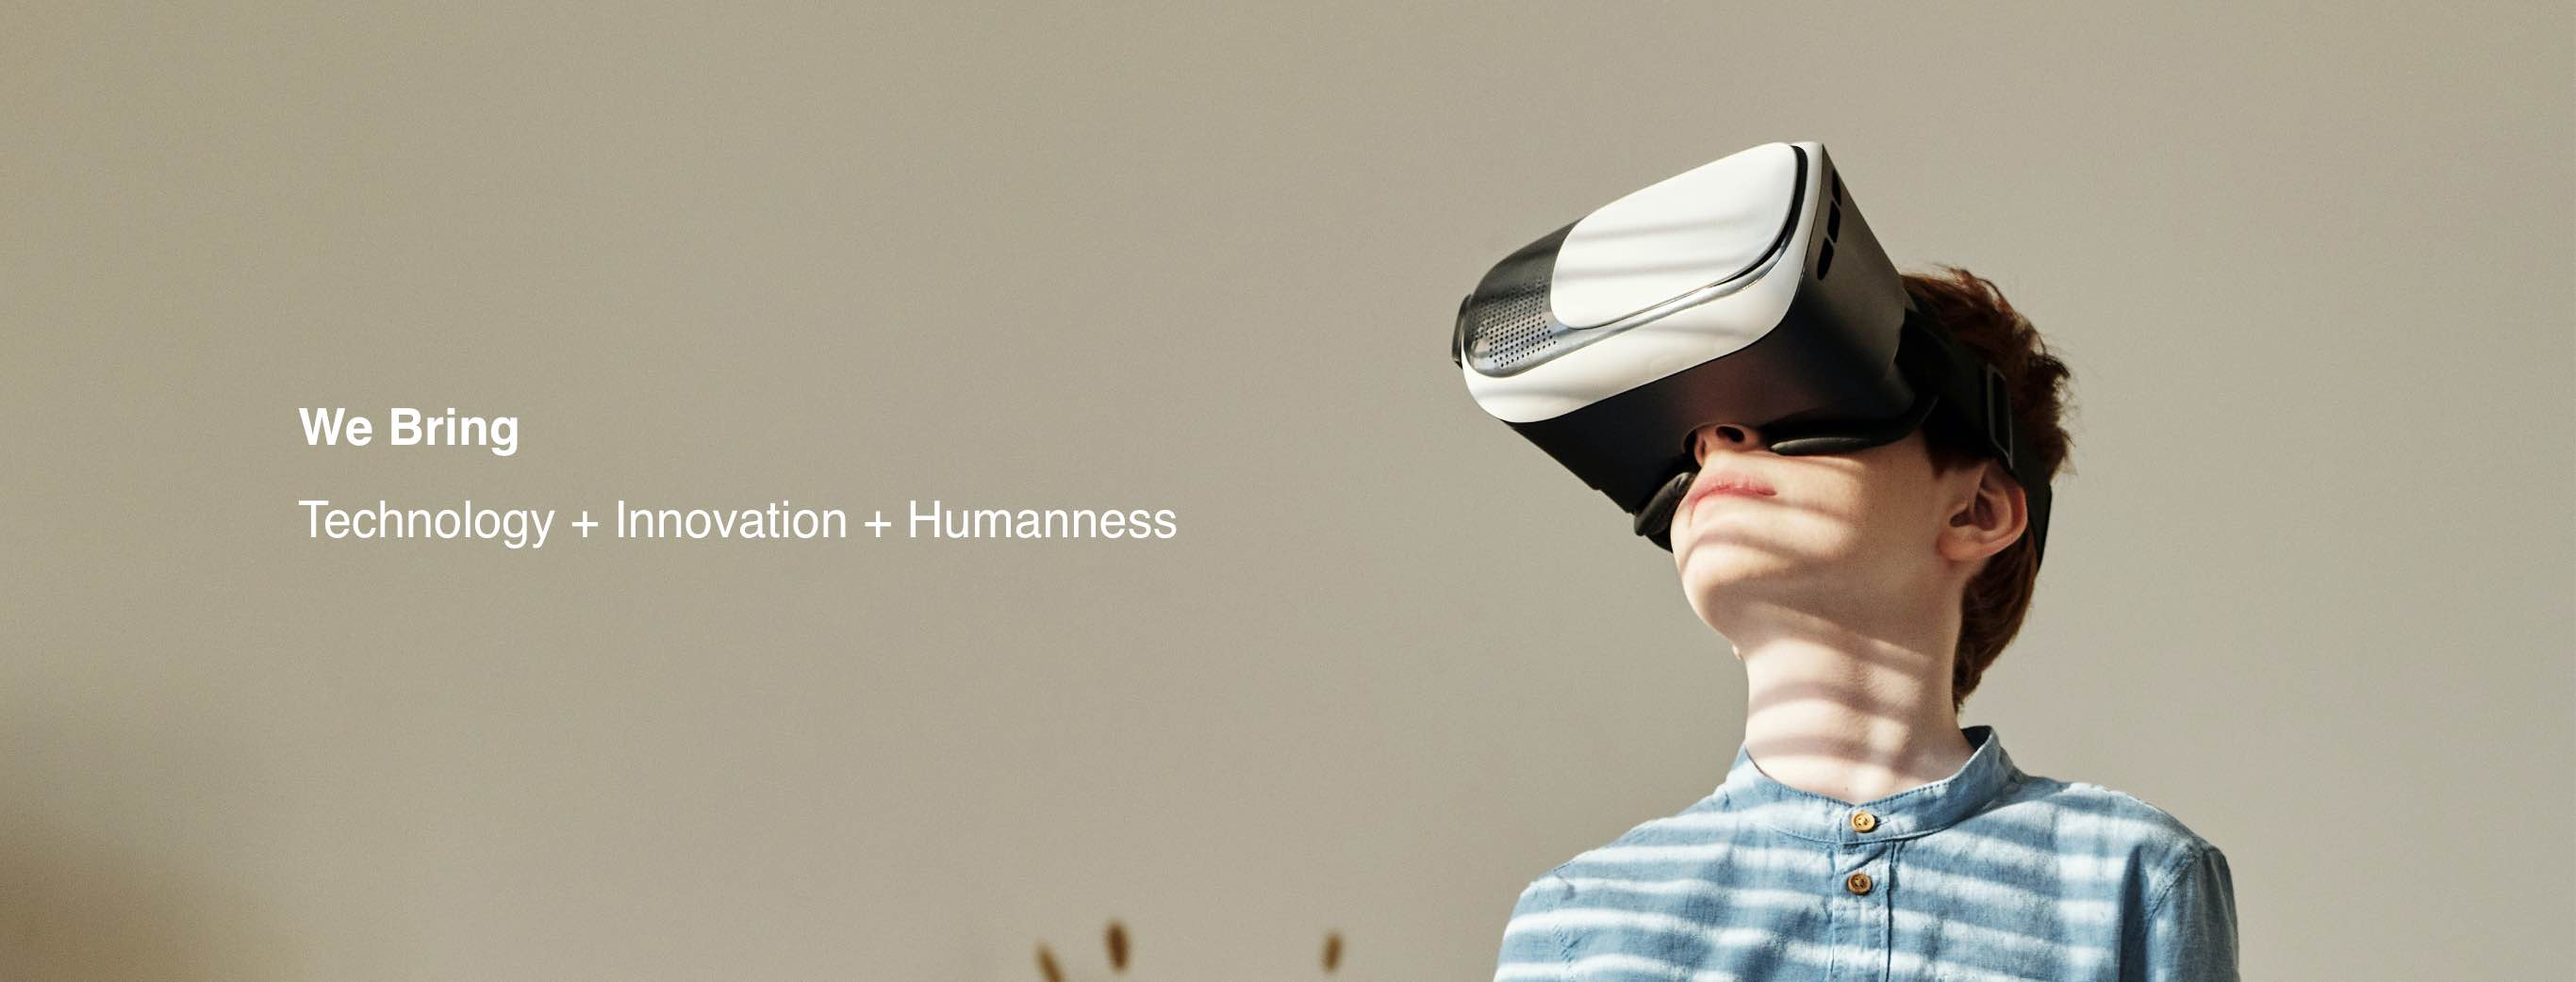
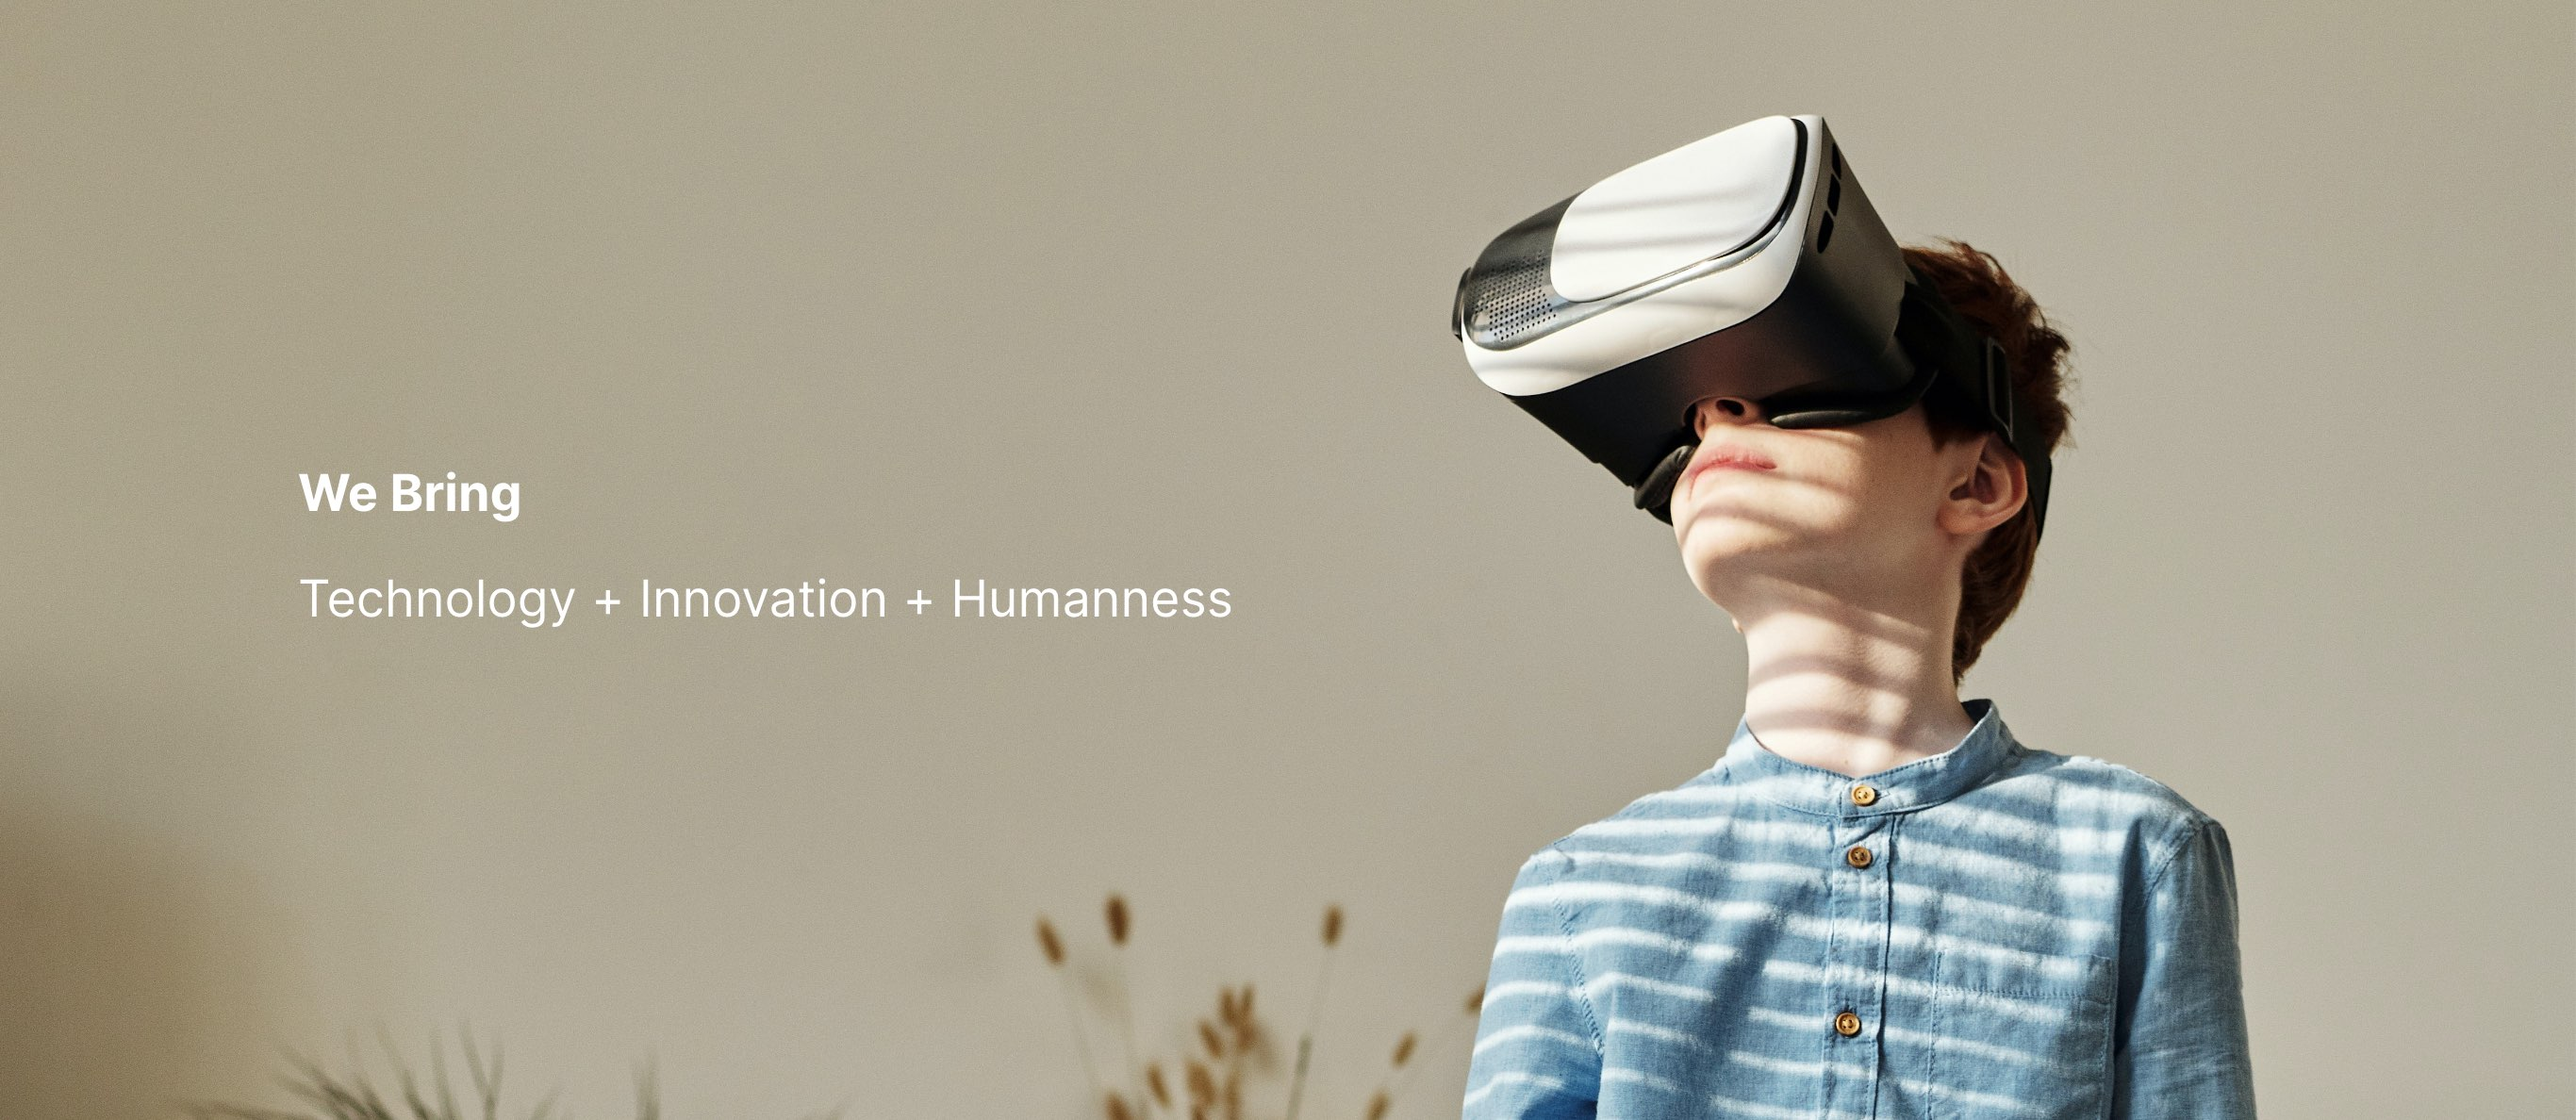
UI fixes

diff --git a/css/uxmint-consulting.css b/css/uxmint-consulting.css
@@ -63,8 +63,7 @@
   display: -webkit-flex;
   display: -ms-flexbox;
   display: flex;
-  padding-right: 10%;
-  padding-left: 10%;
+  padding: 10%;
   -webkit-box-orient: vertical;
   -webkit-box-direction: normal;
   -webkit-flex-direction: column;
@@ -167,7 +166,12 @@
   line-height: 60px;
   font-weight: 500;
 }
-
+.text-h1_1 {
+  font-family: Inter, sans-serif;
+  font-size: 60px;
+  line-height: 85px;
+  font-weight: 500;
+}
 .text-accent-1 {
   color: #623ec6;
 }
@@ -498,7 +502,15 @@ svg.bi.bi-heart{
   line-height: 50px;
   text-decoration: none;
 }
-
+.text-navmenu-link-1:hover {
+  padding-bottom: 40px;
+  font-family: 'Noto Serif', sans-serif;
+  color: #ff6c6c;
+  transition: all 0.5s ease;
+  font-size: 48px;
+  line-height: 50px;
+  text-decoration: none;
+}
 .navclose {
   position: absolute;
   left: auto;
@@ -539,6 +551,14 @@ svg.bi.bi-heart{
 .text-navmenu-link-2 {
   margin-bottom: 30px;
   color: #0f0f0f;
+  font-size: 20px;
+  line-height: 20px;
+  font-weight: 300;
+  text-decoration: none;
+}
+.text-navmenu-link-2:hover {
+  margin-bottom: 30px;
+  color: #ff6c6c;
   font-size: 20px;
   line-height: 20px;
   font-weight: 300;
@@ -741,12 +761,19 @@ svg.bi.bi-heart{
   font-size: 16px;
   text-decoration: none;
 }
-
+.text-link-1-footer:hover {
+  color: #FA4E2E;
+  font-size: 16px;
+  text-decoration: none;
+}
 .text-link-2-footer {
   color: #c7c7c7;
   text-decoration: none;
 }
-
+.text-link-2-footer:hover {
+  color: #FA4E2E;
+  text-decoration: none;
+}
 .footer-divider-1 {
   width: 1px;
   height: 16px;
@@ -4610,6 +4637,10 @@ svg.bi.bi-heart{
     font-size: 18px;
     line-height: 37px;
   }
+  .text-h1_1 {
+    font-size: 26px;
+    line-height: 37px;
+  }
   .wrapper1-2{
     padding: 6% 10% 10% 8%;
   }
@@ -5540,7 +5571,7 @@ label.error {
   width: 0;
   height: 100%;
   border-radius: 7px;
-  background-color: #fa4e2e;
+  background-color: #FA4E2E;
   position: absolute;
   transition: all 0.5s ease;
   content: '';

diff --git a/js/animation.js b/js/animation.js
@@ -40,13 +40,6 @@ new ScrollMagic.Scene({
 }).setClassToggle('.card2', 'slide-top').addTo(controller);
 
 new ScrollMagic.Scene({
-    triggerElement: '.banner-animation',
-    offset: -50,
-    triggerHook: 2.4,
-    reverse:false
-}).setClassToggle('.banner-animation', 'slide-top').addTo(controller);
-
-new ScrollMagic.Scene({
     triggerElement: '.slide-image',
     offset: -100,
     triggerHook: 1,
@@ -94,7 +87,7 @@ new ScrollMagic.Scene({
 new ScrollMagic.Scene({
     triggerElement: '.logo6',
     offset: -100,
-    triggerHook: 0.6,
+    triggerHook: 0.8,
     reverse:false
 }).setClassToggle('.logo6', 'slide-top').addTo(controller);
 

diff --git a/css/text-animation.css b/css/text-animation.css
@@ -571,14 +571,14 @@ xslide
 .cd-headline.slide b.is-visible {
   top: 0;
   opacity: 1;
-  -webkit-animation: slide-in 0.6s;
-  -moz-animation: slide-in 0.6s;
-  animation: slide-in 0.6s;
+  -webkit-animation: slide-in 1.5s;
+  -moz-animation: slide-in 1.5s;
+  animation: slide-in 1.5s;
 }
 .cd-headline.slide b.is-hidden {
-  -webkit-animation: slide-out 0.6s;
-  -moz-animation: slide-out 0.6s;
-  animation: slide-out 0.6s;
+  -webkit-animation: slide-out 1.5s;
+  -moz-animation: slide-out 1.5s;
+  animation: slide-out 1.5s;
 }
 
 @-webkit-keyframes slide-in {

diff --git a/about-us.html b/about-us.html
@@ -35,7 +35,7 @@
     <div class="wrapper hero w-container">
       <div class="text-accent-1">ABOUT US</div>
       <div class="heading-container">
-        <div class="text-h1">There is always a better way to do it <a style="color: #fa4e2e; cursor: unset;">&amp; we find it</a></div>
+        <div class="text-h1_1">There is always a better way to do it <a style="color: #fa4e2e; cursor: unset;">&amp; we find it</a></div>
       </div>
       <div class="container-hero-subtitle">
         <div class="text-h3 black">said Thomas Alva Edison</div>

diff --git a/index.html b/index.html
@@ -43,8 +43,9 @@
       <div class="div-block-123 cd-headline slide">
         <div class="text-h1">We Bring 
           <span class="cd-words-wrapper" style="width: 100%;">
-            <b class="is-visible"> Digital transformation <br>through design</b>
+            <b class="is-visible"> Digital transformation <br> through design</b>
             <b> Technology, Innovation <br> & Humanness together</b>
+            <b> Happiness through <br> Customer Experience Design</b>
             </span>
         </div>
       </div>
